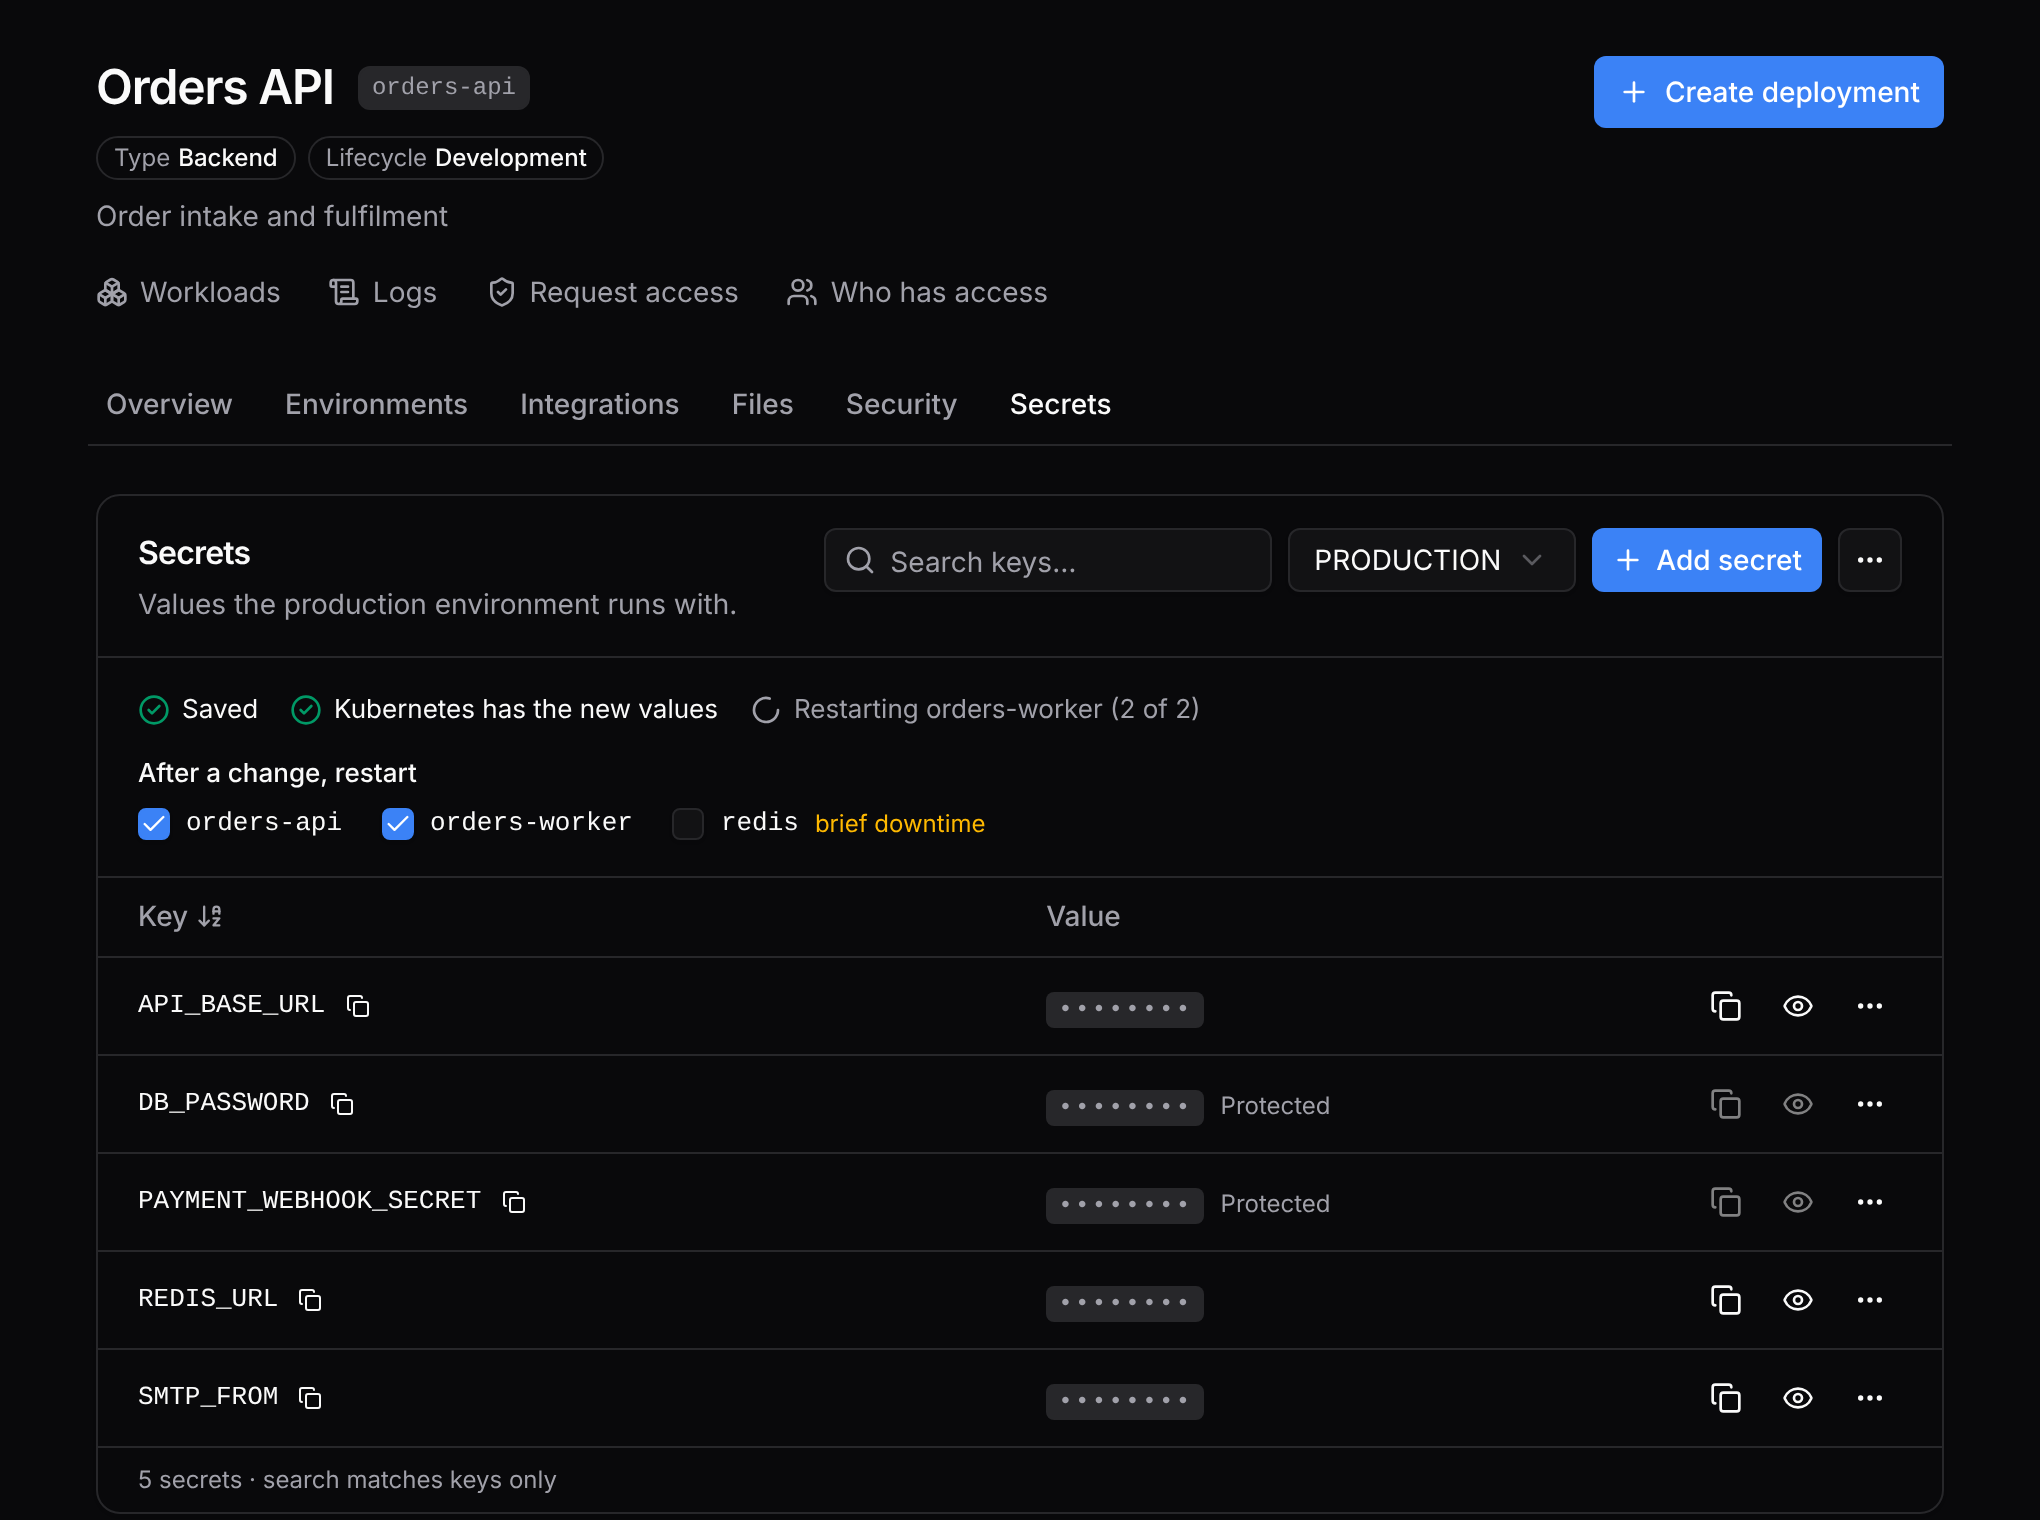
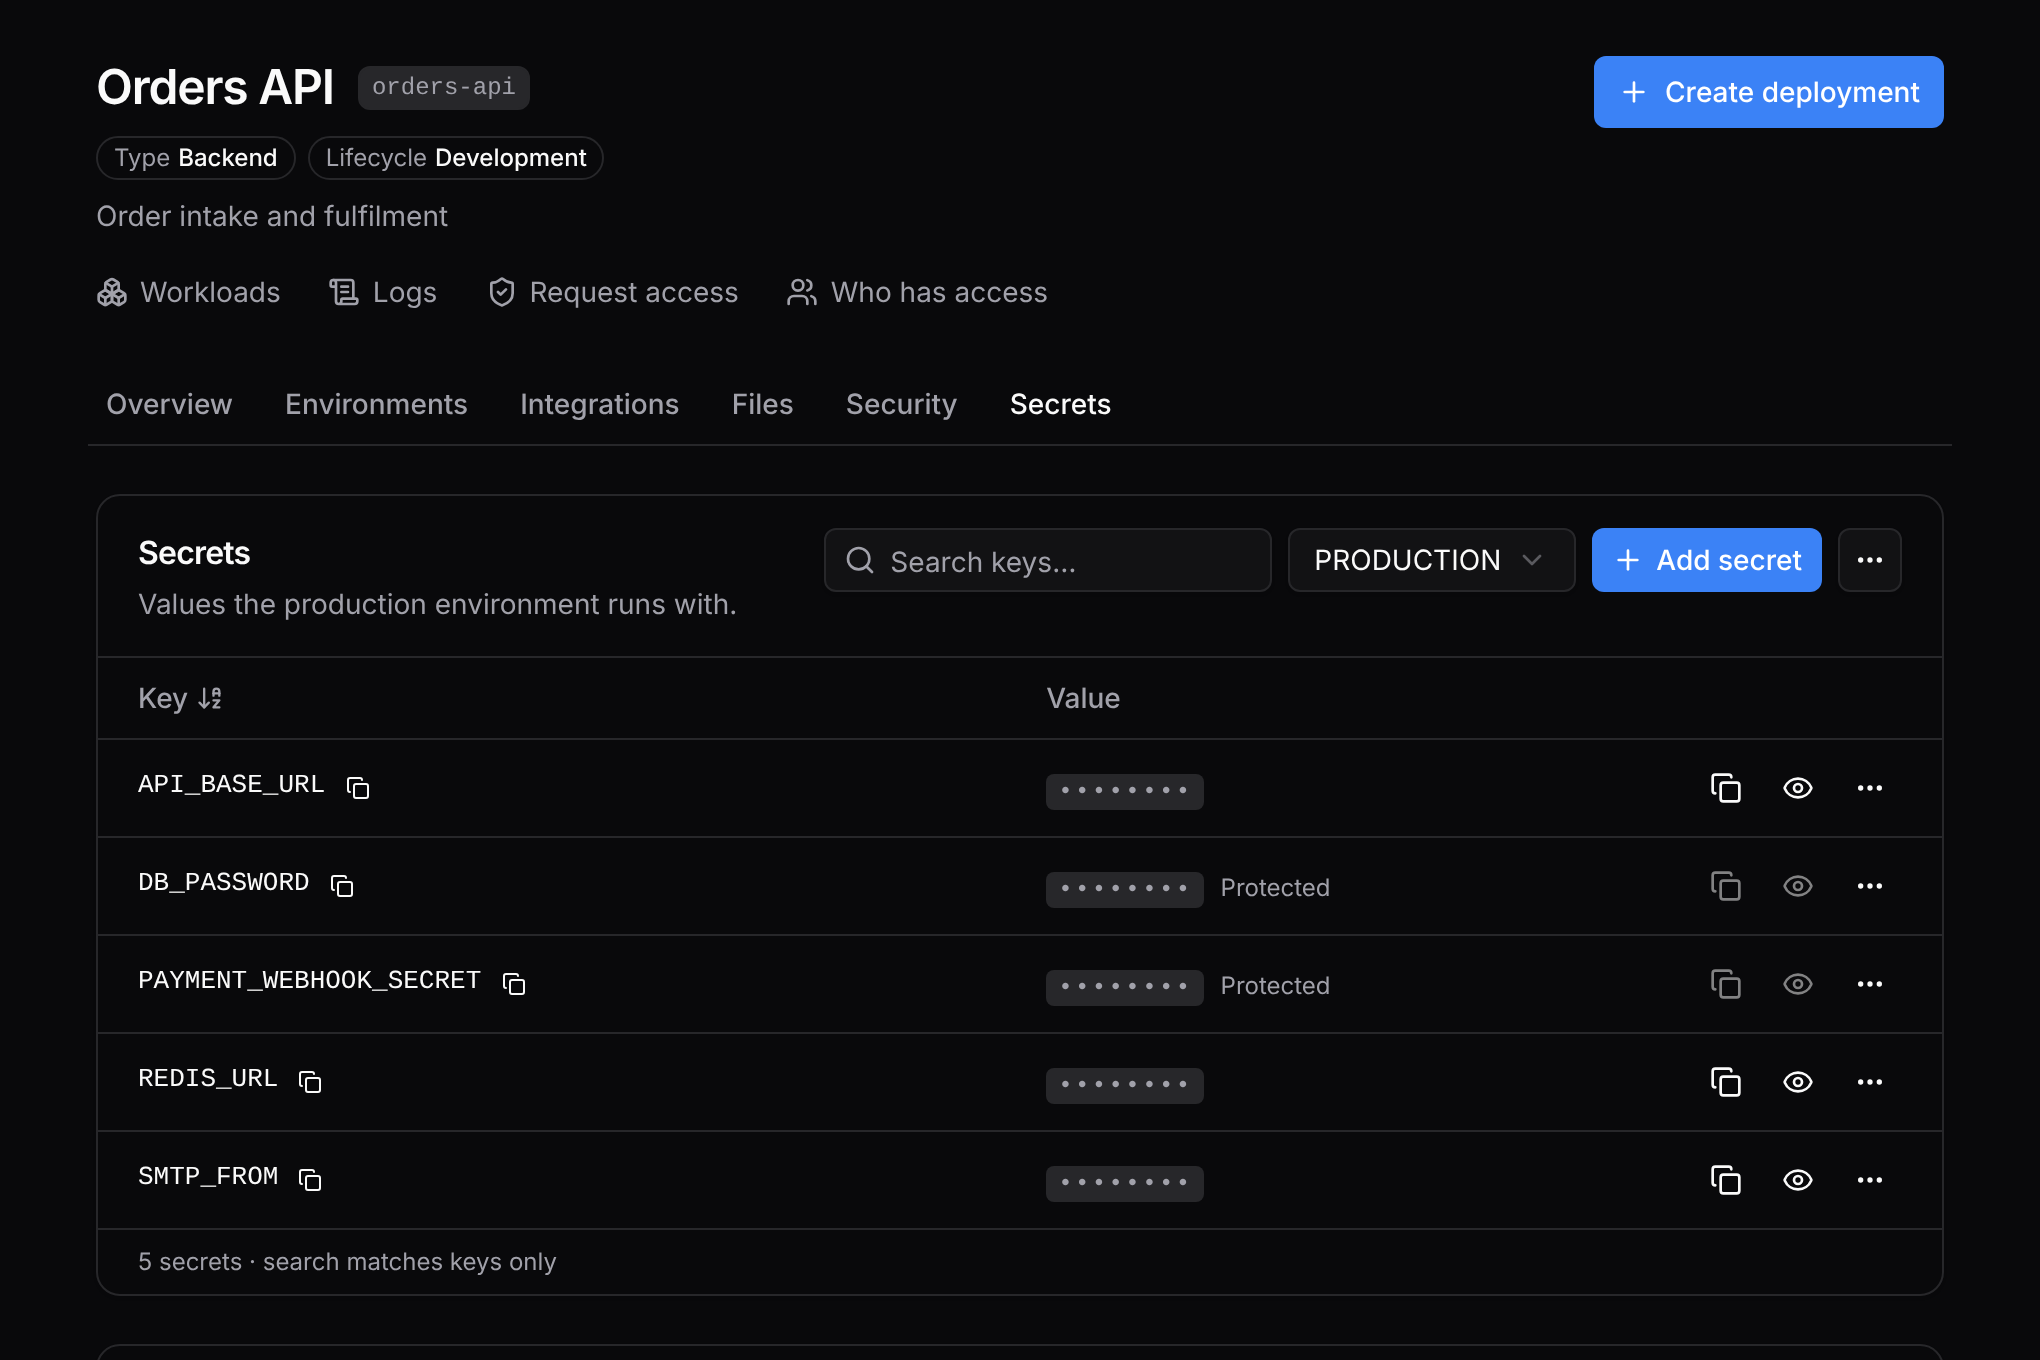
Writing: shorten the secrets section; say what an application is
Claude-Session: https://claude.ai/code/session_01SaRwWq1zZFY1QVVTNDxtey

diff --git a/blog/how-we-deploy-at-cb/index.html b/blog/how-we-deploy-at-cb/index.html
@@ -79,7 +79,7 @@
 <p>Hosting this much is work. What we get back is that when a client asks where their code and data sit, the answer is one sentence.</p>
 
 <h2 id='s3'>What Fabric keeps track of</h2>
-<p>Fabric's whole model is four words. A <b>project</b> is a client engagement and has an owner. A project has <b>applications</b>: a backend, a frontend, a worker. An application has <b>environments</b>: staging, production, and a "global" one for things that are not tied to either, such as the repository. An environment has <b>services</b>: Kubernetes, a database, a web address, file storage, an API workspace.</p>
+<p>Fabric's whole model is four words. A <b>project</b> is a client engagement and has an owner. A project has one or more <b>applications</b>. An application is any piece of software we build and run for that project, whatever it is. An application has <b>environments</b>: staging, production, and a "global" one for things that are not tied to either, such as the repository. An environment has <b>services</b>: Kubernetes, a database, a web address, file storage, an API workspace.</p>
 <p>Every repository, namespace, database and bucket we have belongs to one of those. That sounds like bookkeeping, and it is, but nearly everything else in this post follows from it. Fabric can add a new teammate to the right GitLab project because it knows which project that is. It can tell you who is able to read production secrets because it knows which Vault path is production. It can delete an application cleanly because it knows everything the application ever got.</p>
 
 <figure class='shot'><img src='img/fabric-project.png' width='2040' height='1560' alt='A project page in Engineering Fabric listing its applications.'><figcaption><span class='fignum'>Figure 3.</span> A project and its applications. All screenshots in this post use made-up data.</figcaption></figure>
@@ -134,14 +134,11 @@
 <figure class='shot'><img src='img/fabric-deployments.png' width='2040' height='1160' alt='The list of deployments across applications in Engineering Fabric.'><figcaption><span class='fignum'>Figure 12.</span> Every deployment across the applications of a project.</figcaption></figure>
 
 <h2 id='s7'>Secrets</h2>
-<p>Developers set secrets in Fabric. They never get a Vault login and never touch a Kubernetes Secret. Protected values, such as database passwords, can be replaced but not read back by anyone who is not an admin, and Fabric keeps a log of who touched which keys.</p>
+<p>Fabric manages every application's secrets. Developers set them on the application's page, per environment. They never get a Vault login and never touch a Kubernetes Secret. Protected values, such as database passwords, can be replaced but not read back by anyone who is not an admin, and Fabric keeps a log of who touched which keys.</p>
 
-<p>Pods read their secrets when they start, so a changed value needs a restart to take effect. Fabric takes care of that. After a save it restarts the deployments the developer ticked, and the page shows each stage as it happens.</p>
+<figure class='shot'><img src='img/fabric-secrets.png' width='2040' height='1360' alt='The Secrets tab of an application in Engineering Fabric, listing its keys with the values hidden.'><figcaption><span class='fignum'>Figure 13.</span> An application's secrets. Values stay hidden, and protected ones cannot be revealed at all.</figcaption></figure>
 
-<figure class='shot'><img src='img/fabric-secrets.png' width='2040' height='1520' alt='The Secrets tab of an application, showing a saved change, Kubernetes having the new values, and one of two deployments being restarted.'><figcaption><span class='fignum'>Figure 13.</span> A secret change on its way to the pods.</figcaption></figure>
-
-<p>Deployments that keep data on a disk only one pod can use, a Redis or a database running in the cluster, are left unticked by default. Restarting those means a short outage, and that should be somebody's decision.</p>
-<p>Fabric itself cannot read Kubernetes Secrets. It knows the cluster has the new value because External Secrets reports it. We left that permission out deliberately, so that a bug in Fabric cannot leak a value it never had.</p>
+<p>Fabric itself cannot read Kubernetes Secrets. We left that permission out deliberately, so that a bug in Fabric cannot leak a value it never had.</p>
 
 <h2 id='s8'>Domains and certificates</h2>
 <p>An application's addresses live on its Integrations tab, next to everything else it is connected to. Adding one creates the route, the DNS record and the certificate together, and removing one takes all three away. Certificates come from free public authorities through cert-manager and renew on their own. When a client has bought a certificate, an admin uploads it; Fabric stores it in Vault and serves it the same way.</p>
